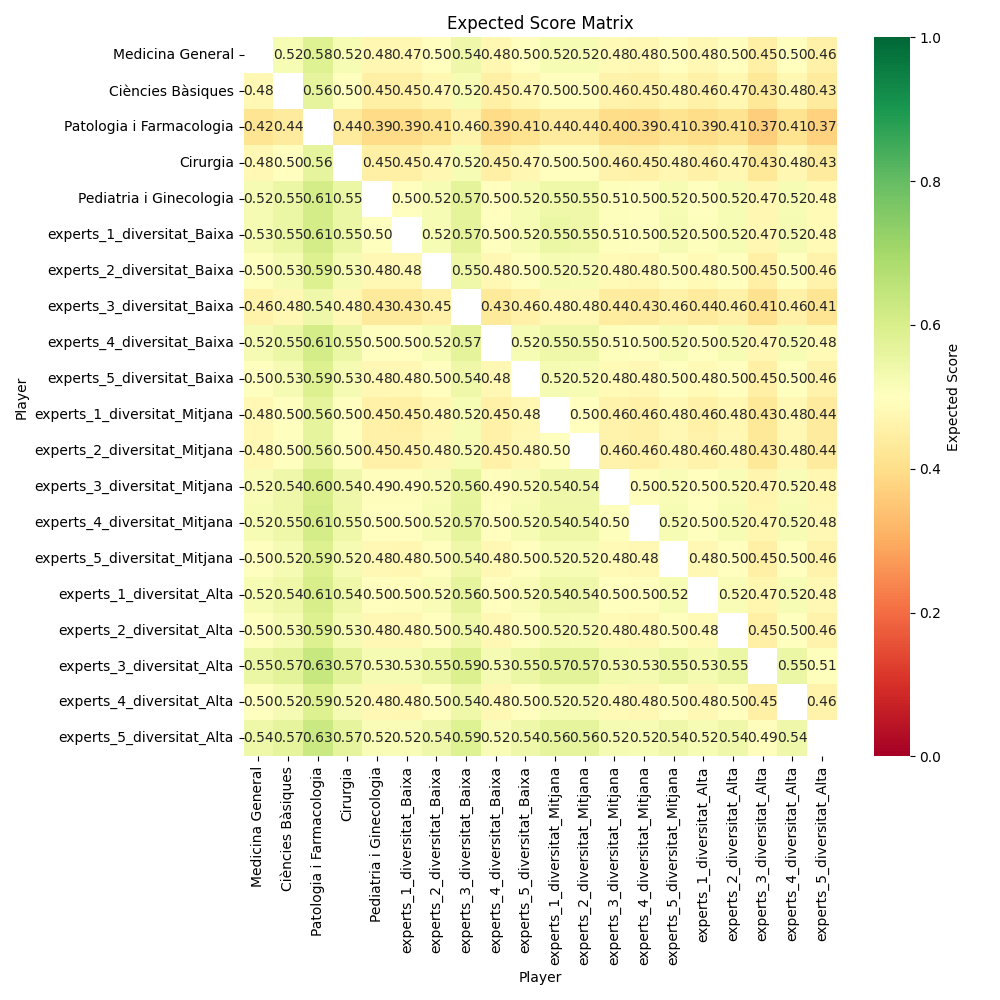
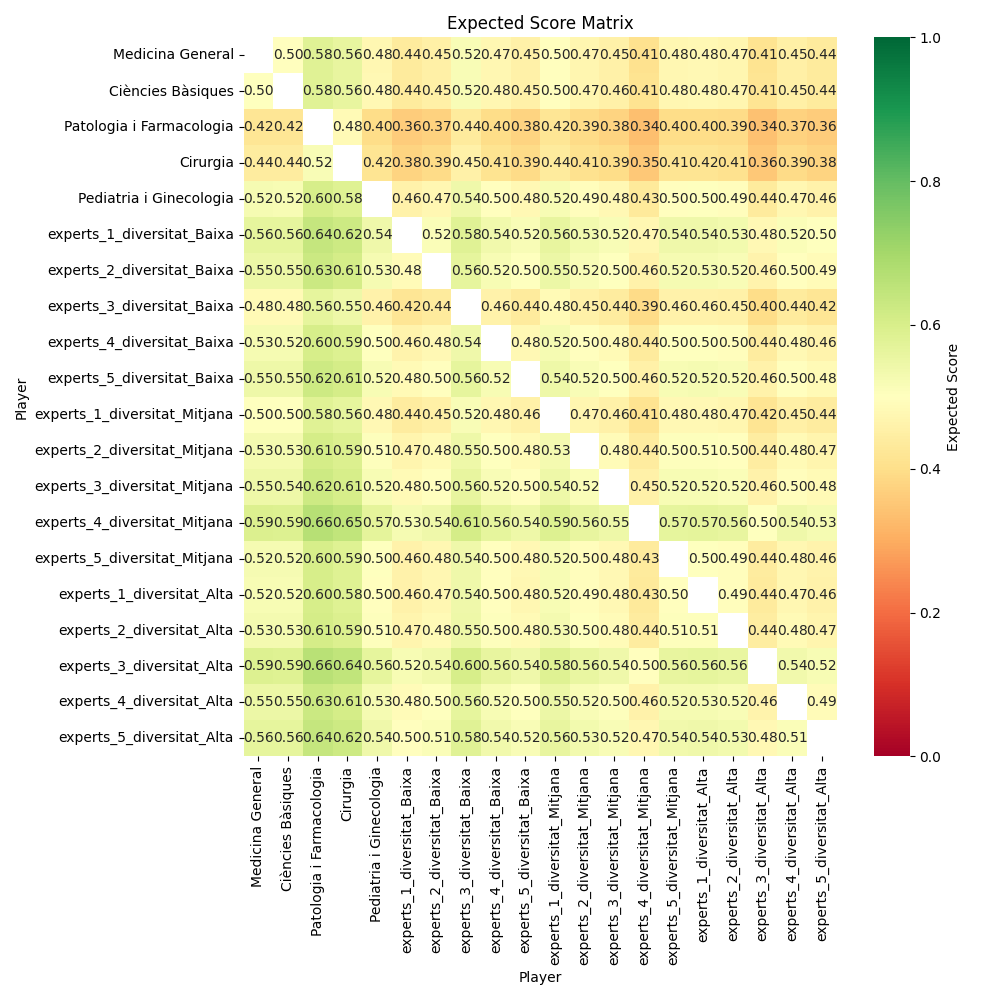
més casos

diff --git a/app.py b/app.py
@@ -86,10 +86,18 @@ EXAMPLE_CASES = {
     "Donació d'òrgans": "A 19-year-old male is found unresponsive by his parents and is declared brain-dead following a fentanyl overdose. The medical team approaches the family to discuss organ donation. The parents are divided: one wishes to proceed, believing it will give meaning to their loss, while the other cannot accept the idea. The team must navigate the ethical complexities of consent, grief, and the urgency of organ procurement.",
     "Intubació o fi de vida": "An 89-year-old male patient with dementia and respiratory distress arrives at the ER. The medical team must decide whether to intubate him, which would violate his advance directive stating he does not want to be placed on a ventilator. The patient's son insists on honoring the directive, while the daughter cannot accept a decision that results in her father's death. Ultimately, the son defers to the daughter, and the doctor intubates the patient—knowing it goes against the patient's stated wishes.",
     "Error de medicació": "A 45-year-old patient is admitted for pneumonia and is prescribed an antibiotic. The nurse administers the wrong dose due to a miscalculation, leading to kidney damage. The case explores medical error reporting, accountability, and communication with the patient and family about the adverse event.",
-    "Consentiment informat": "A 60-year-old woman with early-stage breast cancer is offered a choice between a lumpectomy with radiation or a mastectomy. She feels overwhelmed by the information and pressured by her family to choose the more aggressive option (mastectomy). The ethical challenge for the physician is to ensure true informed consent, respecting the patient's autonomy against external pressures.",
     "Salut mental adolescent": "A 16-year-old is brought to a clinic by their parents for signs of depression and self-harm. The teenager requests confidentiality from their parents regarding the details of their therapy. The case navigates the complex balance between patient confidentiality for a minor and parental rights/responsibilities, especially when there's a risk of harm.",
-    "Assignació de recursos": "During a flu pandemic, a hospital has a limited number of ventilators. Two patients need one urgently: a 78-year-old with multiple comorbidities and a 35-year-old with no prior health issues. The medical team must use an ethical framework to decide who receives the life-saving resource.",
+    "Assignació de recursos": "During the COVID-19 pandemic, a hospital has a limited number of ventilators. Two patients need one urgently: a 78-year-old with multiple comorbidities and a 35-year-old with no prior health issues. The medical team must use an ethical framework to decide who receives the life-saving resource.",
     "Conflicte religiós": "A patient, a devout Jehovah's Witness, has life-threatening internal bleeding after an accident but refuses a blood transfusion due to religious beliefs. The medical team must respect the patient's deeply held beliefs while also confronting their professional duty to preserve life, exploring all alternative treatments available.",
+    "Complicacions postpart no diagnosticades i biaix implícit": "A 32-year-old woman, six weeks postpartum, presents with persistent fatigue and shortness of breath, which she has been told by previous clinicians is 'just new mom exhaustion.' Investigations reveal a rare but life-threatening postpartum cardiomyopathy. The case could explore themes of maternal health and potential implicit biases in .",
+    "Rebuig de tractament vital per desinformació": "A 6-year-old child is brought to the ER with a high fever and rash, rapidly progressing to respiratory distress. The medical team diagnoses a vaccine-preventable illness, like measles, but the parents are staunchly anti-vaccine and initially refuse critical interventions, citing online misinformation. The staff, must navigate the ethical and medical emergency of treating the child while respectfully and urgently trying to counter the parents' deeply held but dangerous beliefs.",
+    "Sospita de víctima de tràfic": "A young woman is brought in by a middle-aged woman who identifies herself as her employer, claiming she fell at work. She has multiple injuries inconsistent with a simple fall, and is fearful and reluctant to speak. The team has to carefully gather information and involve social work and security, balancing the patient's immediate medical needs with the complexities of identifying and protecting a potential trafficking victim, knowing that such victims can often fall through the cracks.",
+    "Tiroteig múltiple": "Following a mass shooting at a local music festival, the ER is overwhelmed with a sudden influx of critically injured patients. The entire staff, already stretched thin, must implement mass casualty protocols. Explain what a typical protocol in a mass casualty situation looks like, including triage, resource allocation, and communication strategies.",
+    "Xoc sèptic emmascarat": "A 68-year-old male with hypertension and type 2 diabetes presents with generalized weakness and mild confusion for 48 hours. Initial vitals: BP 100/60 mmHg, HR 110 bpm, RR 22 rpm, Temp 37.0°C (afebrile). ECG shows sinus tachycardia. Capillary glucose is 180 mg/dL. Despite no fever and a seemingly 'acceptable' BP, septic shock is suspected. Serum lactate, blood cultures, urine culture, and a chest X-ray are ordered. Lactate is elevated (4.2 mmol/L), and X-ray suggests right basal pneumonia. Aggressive IV fluids and broad-spectrum antibiotics (piperacillin-tazobactam and vancomycin) are promptly initiated, preventing progression to refractory shock.",
+    "Crisi hipertensiva": "A 52-year-old woman with no known medical history presents with sudden severe occipital headache, blurred vision, and mild dysarthria. On arrival, BP is 240/130 mmHg. A hypertensive emergency with possible encephalopathy or hemorrhagic stroke is suspected. A stroke code is activated, and an urgent head CT is requested. IV labetalol is started to cautiously lower mean arterial pressure by no more than 20-25% in the first hour. Neurological status and hemodynamic response are closely monitored. The CT rules out hemorrhage but shows mild vasogenic edema, consistent with Posterior Reversible Encephalopathy Syndrome (PRES).",
+    "Taponament cardíac post-viral": "A 24-year-old male university athlete presents with progressive dyspnea, pleuritic chest pain, and orthopnea one week after a severe flu-like illness. Examination reveals marked jugular venous distension, hypotension (BP 90/70 mmHg), and muffled heart sounds. ECG shows sinus tachycardia with electrical alternans. A point-of-care ultrasound (POCUS) reveals a severe pericardial effusion with signs of hemodynamic compromise (diastolic collapse of right-sided chambers). Cardiac tamponade, likely secondary to viral myopericarditis, is diagnosed. Cardiology is urgently consulted for an emergent pericardiocentesis.",
+    "Obstrucció intestinal en un pacient psiquiàtric": "A 58-year-old male with known paranoid schizophrenia is brought in by police from a shelter due to agitation and refusing food for three days. The patient is verbally hostile, denies symptoms, and refuses examination. Abdominal distension is noted. After mild sedation (low-dose midazolam) with family consent, an abdominal palpation reveals diffuse tenderness and tympany. Bowel obstruction is suspected. A plain abdominal X-ray shows air-fluid levels and dilated bowel loops. General surgery is consulted for a possible sigmoid volvulus or adhesion, given his history of multiple laparotomies.",
+    "Anafilaxi bifàsica per aliment desconegut": "A 7-year-old girl presents with generalized urticaria, facial angioedema, and wheezing 30 minutes after eating at a birthday party. Intramuscular epinephrine (0.15 mg), IV antihistamines, and IV corticosteroids are administered with rapid initial improvement. Despite parental desire to go home, a 4-6 hour observation period is recommended due to the risk of a biphasic reaction. Approximately 3 hours later, while still under observation, the child re-develops stridor, hypotension (BP 70/40 mmHg), and desaturation (SpO2 88%). A biphasic reaction is diagnosed. A second dose of IM epinephrine and rapid IV fluids are given, and intubation is prepared for but ultimately not needed.",
 }
 
 
@@ -356,7 +364,6 @@ elif app_mode == "Batalla":
     # Default queries for Batalla mode
     st.subheader("Consultes d'exemple per a batalla de The Pitt (2025):")
     cols = st.columns(3)
-
     for i, title in enumerate(st.session_state.random_cases):
         with cols[i]:
             if st.button(title, key=f"battle_case_{i+1}"):
@@ -375,6 +382,7 @@ elif app_mode == "Batalla":
     )
 
     if st.button("Iniciar Batalla / Nova Pregunta", key="battle_start_button", type="primary"):
+        # st.session_state.vote_casted = False
         if current_question_battle.strip():
             st.session_state.battle_question = current_question_battle
             st.session_state.battle_mode = True
@@ -386,7 +394,6 @@ elif app_mode == "Batalla":
 
             with st.spinner("Generant respostes per a la batalla..."):
                 try:
-                    # Generació de Resposta A
                     if random.random() < 0.1:
                         st.session_state.battle_configs_parsed["A"] = {
                             "experts": None,

diff --git a/elo.py b/elo.py
@@ -128,66 +128,66 @@ def optimal_pairings(matches_df=None):
 
 
 if __name__ == "__main__":
-    op = optimal_pairings().pop(3)  # Get the top pairing
+    op = optimal_pairings()  # Get the top pairing
     print("Optimal pairing:", op[0], "vs", op[1])
-    # matches_df = pd.read_csv("battle_votes.csv")
-    # emparellaments_optims = optimal_pairings(matches_df)
-    # print("Optimal pairings for matches:")
-    # for p1, p2, v, v2 in emparellaments_optims[:10]:  # Show only the top 10 pairings
-    #     print(f"{p1} vs {p2}: {v:.3f} |---| {v2:.3f}")
-    # ratings_df = calculate_elo_ratings(matches_df, initial_rating=1000, k=32)
-    # models_order = [
-    #     "Medicina General",
-    #     "Ciències Bàsiques",
-    #     "Patologia i Farmacologia",
-    #     "Cirurgia",
-    #     "Pediatria i Ginecologia",
-    #     "experts_1_diversitat_Baixa",
-    #     "experts_2_diversitat_Baixa",
-    #     "experts_3_diversitat_Baixa",
-    #     "experts_4_diversitat_Baixa",
-    #     "experts_5_diversitat_Baixa",
-    #     "experts_1_diversitat_Mitjana",
-    #     "experts_2_diversitat_Mitjana",
-    #     "experts_3_diversitat_Mitjana",
-    #     "experts_4_diversitat_Mitjana",
-    #     "experts_5_diversitat_Mitjana",
-    #     "experts_1_diversitat_Alta",
-    #     "experts_2_diversitat_Alta",
-    #     "experts_3_diversitat_Alta",
-    #     "experts_4_diversitat_Alta",
-    #     "experts_5_diversitat_Alta",
-    # ]
+    matches_df = pd.read_csv("battle_votes.csv")
+    emparellaments_optims = optimal_pairings(matches_df)
+    print("Optimal pairings for matches:")
+    for p1, p2, v, v2 in emparellaments_optims[:10]:  # Show only the top 10 pairings
+        print(f"{p1} vs {p2}: {v:.3f} |---| {v2:.3f}")
+    ratings_df = calculate_elo_ratings(matches_df, initial_rating=1000, k=32)
+    models_order = [
+        "Medicina General",
+        "Ciències Bàsiques",
+        "Patologia i Farmacologia",
+        "Cirurgia",
+        "Pediatria i Ginecologia",
+        "experts_1_diversitat_Baixa",
+        "experts_2_diversitat_Baixa",
+        "experts_3_diversitat_Baixa",
+        "experts_4_diversitat_Baixa",
+        "experts_5_diversitat_Baixa",
+        "experts_1_diversitat_Mitjana",
+        "experts_2_diversitat_Mitjana",
+        "experts_3_diversitat_Mitjana",
+        "experts_4_diversitat_Mitjana",
+        "experts_5_diversitat_Mitjana",
+        "experts_1_diversitat_Alta",
+        "experts_2_diversitat_Alta",
+        "experts_3_diversitat_Alta",
+        "experts_4_diversitat_Alta",
+        "experts_5_diversitat_Alta",
+    ]
 
-    # # Reindex ratings_df according to models_order, filling missing values with initial rating
-    # ratings_df = ratings_df.set_index("player").reindex(models_order).fillna(1000).reset_index()
+    # Reindex ratings_df according to models_order, filling missing values with initial rating
+    ratings_df = ratings_df.set_index("player").reindex(models_order).fillna(1000).reset_index()
 
-    # expected_score_matrix = expected_score_matrix(ratings_df["rating"].values)
-    # print("Elo ratings:")
-    # for _, row in ratings_df.iterrows():
-    #     print(f"{row['player']}: {row['rating']:.1f}")
-    # plt.figure(figsize=(10, 10))
-    # # Create a mask to set diagonal values to NaN
-    # mask = np.zeros_like(expected_score_matrix)
-    # np.fill_diagonal(mask, True)
+    expected_score_matrix = expected_score_matrix(ratings_df["rating"].values)
+    print("Elo ratings:")
+    for _, row in ratings_df.iterrows():
+        print(f"{row['player']}: {row['rating']:.1f}")
+    plt.figure(figsize=(10, 10))
+    # Create a mask to set diagonal values to NaN
+    mask = np.zeros_like(expected_score_matrix)
+    np.fill_diagonal(mask, True)
 
-    # # heatmap with colors red-green but if 0 then white
-    # sns.heatmap(
-    #     expected_score_matrix,
-    #     annot=True,
-    #     fmt=".2f",
-    #     cmap="RdYlGn",
-    #     center=0.5,
-    #     vmin=0,
-    #     vmax=1,
-    #     xticklabels=ratings_df["player"],
-    #     yticklabels=ratings_df["player"],
-    #     mask=mask,  # Apply the mask
-    #     cbar_kws={"label": "Expected Score"},  # Add a label to the colorbar
-    # )
-    # plt.title("Expected Score Matrix")
-    # plt.xlabel("Player")
-    # plt.ylabel("Player")
-    # plt.tight_layout()
-    # plt.savefig("expected_scores_matrix.png")
-    # plt.show()
+    # heatmap with colors red-green but if 0 then white
+    sns.heatmap(
+        expected_score_matrix,
+        annot=True,
+        fmt=".2f",
+        cmap="RdYlGn",
+        center=0.5,
+        vmin=0,
+        vmax=1,
+        xticklabels=ratings_df["player"],
+        yticklabels=ratings_df["player"],
+        mask=mask,  # Apply the mask
+        cbar_kws={"label": "Expected Score"},  # Add a label to the colorbar
+    )
+    plt.title("Expected Score Matrix")
+    plt.xlabel("Player")
+    plt.ylabel("Player")
+    plt.tight_layout()
+    plt.savefig("expected_scores_matrix.png")
+    plt.show()
